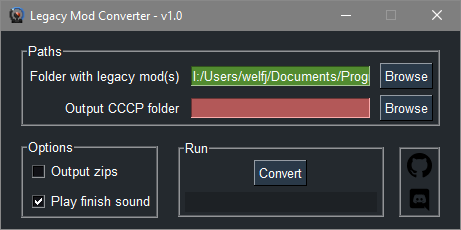
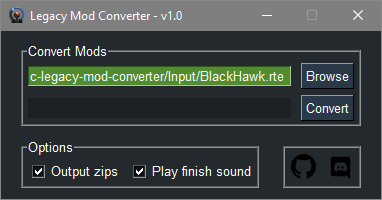
Beautified the GUI. Closes #20

diff --git a/python/gui.py b/python/gui.py
@@ -23,38 +23,38 @@ def init_window():
 	paths_column = [
 		[sg.Frame(layout=[
 		[
-			sg.Text("Mod(s) to convert", tooltip=" You can convert multiple legacy mods at once by selecting their parent directory "),
 			sg.In(
 				sg.user_settings_get_entry("input_folder"),
-				size=(34, 1),
+				size=(37, 1),
 				enable_events=True,
 				key="-INPUT FOLDER-",
 				background_color=sg.theme_input_background_color() if sg.user_settings_get_entry("input_folder") else no_path_set_color
 			),
 			sg.FolderBrowse()
+		],
+		[
+			sg.ProgressBar(100, size=(23.9, 20), key="-PROGRESS BAR-"),
+			sg.Button("Convert", key="-CONVERT-")
 		]
-		], title="Paths", element_justification="right")]
+		], title="Convert Mods")]
 	]
 
 	options_column = [
 		[sg.Frame(layout=[
-			[sg.Checkbox("Output zips", size=(10, 1), tooltip=" Zipping is slow ", key="-OUTPUT ZIPS-", default=sg.user_settings_get_entry("output_zips"), enable_events=True)],
-			[sg.Checkbox("Play finish sound", size=(12, 1), tooltip=" For when converting takes long ", key="-PLAY FINISH SOUND-", default=sg.user_settings_get_entry("play_finish_sound"), enable_events=True)]
+		[
+			sg.Checkbox("Output zips", size=(8, 1), tooltip=" Zipping is slow ", key="-OUTPUT ZIPS-", default=sg.user_settings_get_entry("output_zips"), enable_events=True),
+			sg.Checkbox("Play finish sound", size=(12, 1), tooltip=" For when converting takes long ", key="-PLAY FINISH SOUND-", default=sg.user_settings_get_entry("play_finish_sound"), enable_events=True)
+		]
 		], title="Options")],
-	]
-
-	run_column = [
-		[sg.Frame(layout=[
-			[sg.Button("Convert", key="-CONVERT-")],
-			[sg.ProgressBar(100, size=(17.4, 20), key="-PROGRESS BAR-")]
-		], title="Run", element_justification="center")]
 	]
 
 	info_column = [
 		[sg.Frame(layout=[
-			[sg.Image("media/github-icon.png", enable_events=True, key="-GITHUB-", tooltip=" Visit this program's GitHub page ")],
-			[sg.Image("media/discord-icon.png", enable_events=True, key="-DISCORD-", tooltip=" Visit the CCCP Discord server ")]
-		], title="", pad=(0, (8, 0)))]
+		[
+			sg.Image("media/github-icon.png", enable_events=True, key="-GITHUB-", tooltip=" Visit this program's GitHub page ", size=(0, 30)),
+			sg.Image("media/discord-icon.png", enable_events=True, key="-DISCORD-", tooltip=" Visit the CCCP Discord server for help ", size=(0, 30))
+		]
+		], title="", pad=((9, 0), (8, 0)))]
 	]
 
 	layout = [
@@ -63,7 +63,6 @@ def init_window():
 		],
 		[
 			sg.Column(options_column),
-			sg.Column(run_column),
 			sg.Column(info_column)
 		]
 	]
